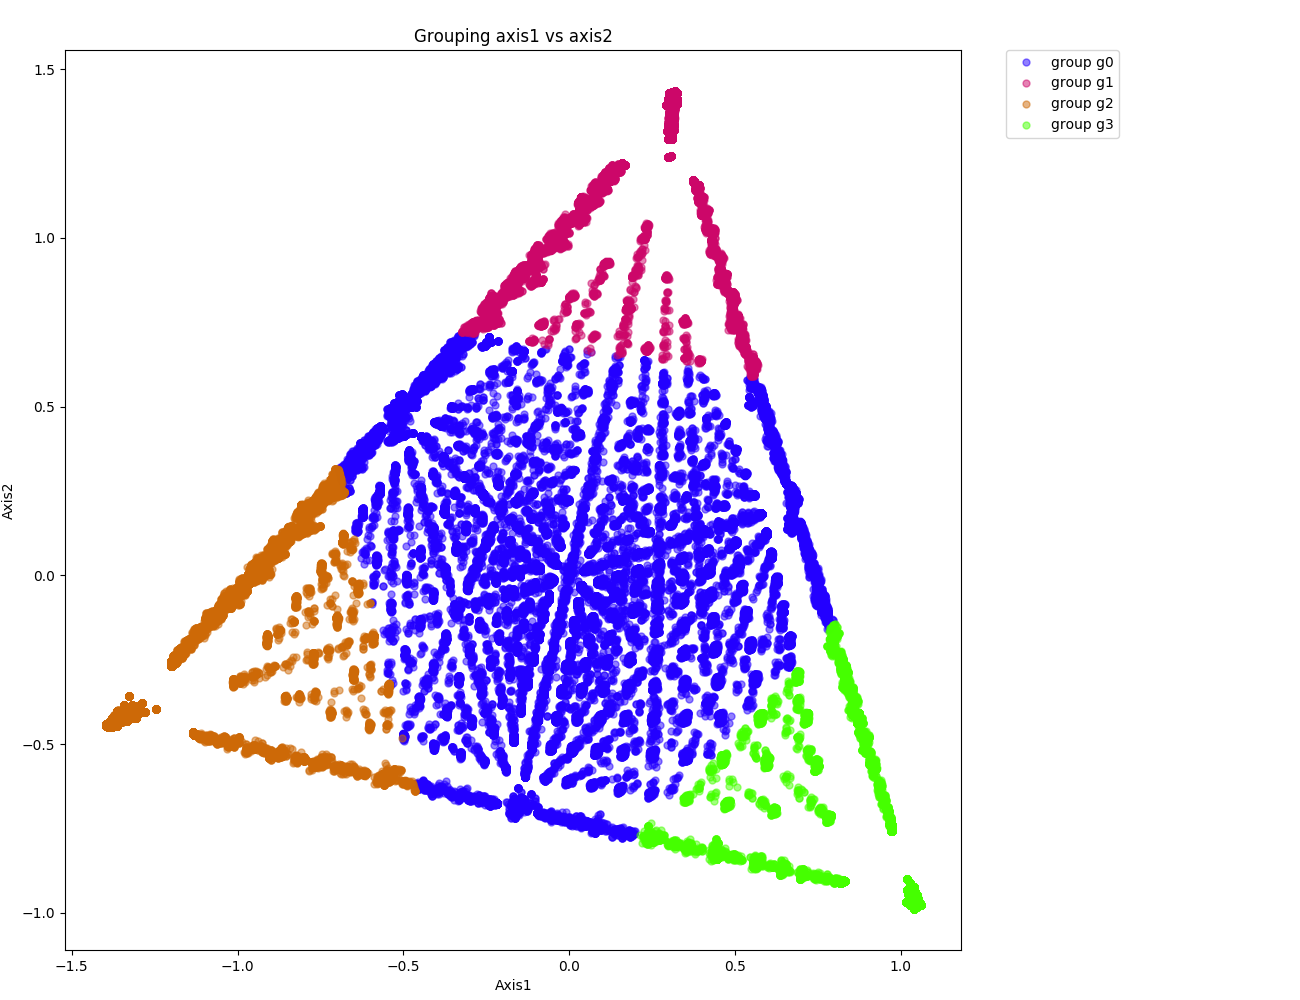
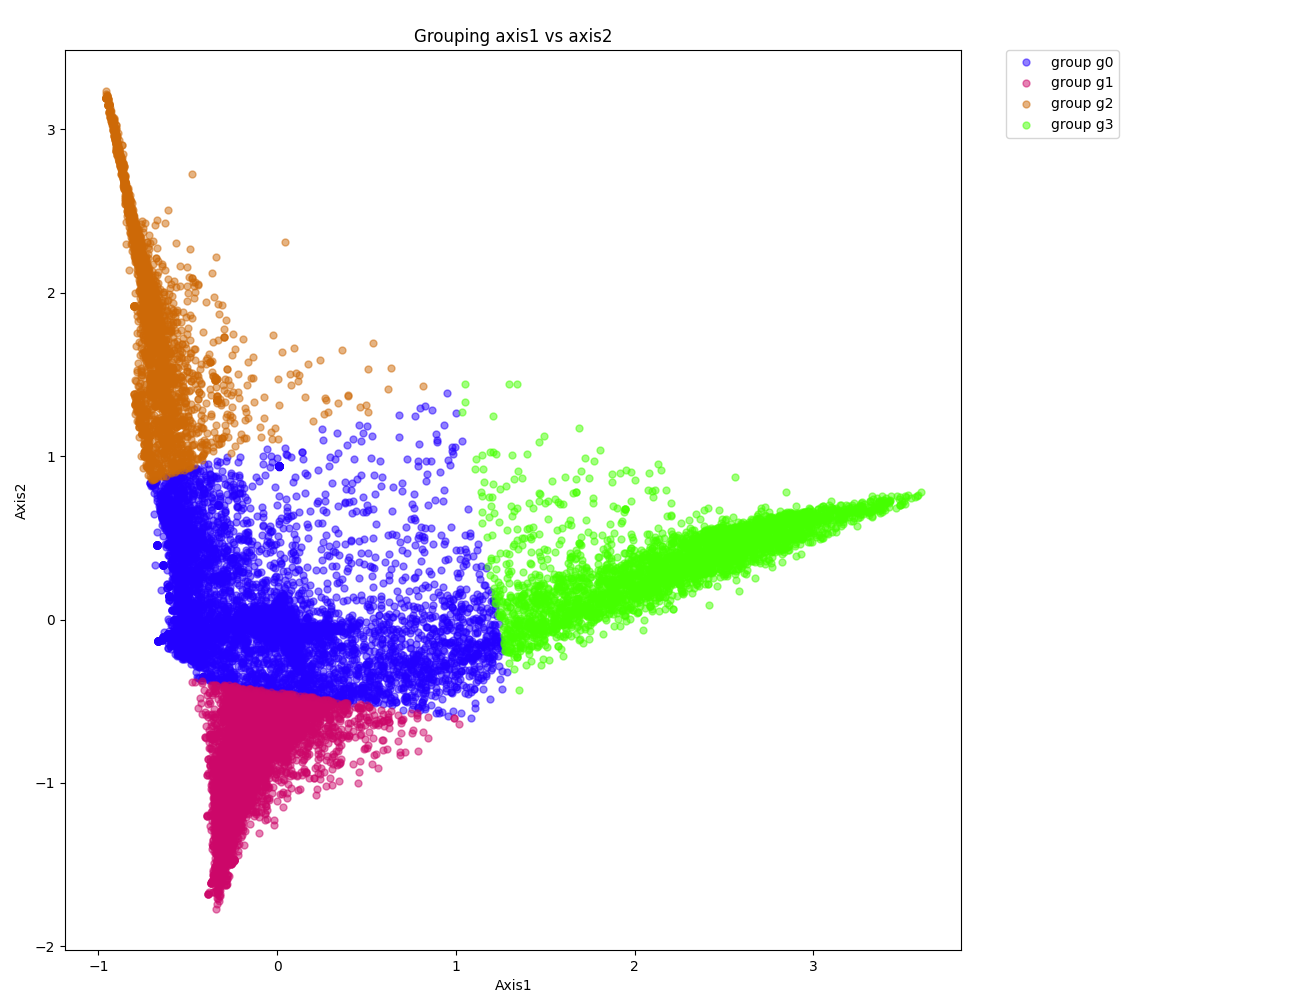
complete PCA protocol

diff --git a/docs/source/PCAChromosomePainting.rst b/docs/source/PCAChromosomePainting.rst
@@ -100,6 +100,9 @@ axis in the following picture.
 
 .. image:: _images/PCA1.png
 
+Correspond to the file : **PCA/Analysis_axis_1_vs_2.pdf**
+
+
 In this example the left graph represent accessions projected along
 axis 1 and 2 and the right represent the allele projected along
 synthetic axis. A graphical representation is performed for each axis
@@ -119,12 +122,16 @@ along synthetic axis is generated.
 
 ::
 
-   sort -k 2n,2 PCA/Analysis_individuals_coordinates.tab | cut -f 1 -d " " | tail -10 > data/origin.txt
-   sort -k 3n,3 PCA/Analysis_individuals_coordinates.tab | cut -f 1 -d " " | tail -10 >> data/origin.txt
-   sort -k 3nr,3  PCA/Analysis_individuals_coordinates.tab | cut -f 1 -d " " | tail -10 >> data/origin.txt
-   sed -i 's:\"::g' data/origin.txt
-   sed -i 's=\.=-=' data/origin.txt
-
+   sort -k 2n,2 PCA/Analysis_individuals_coordinates.tab | cut -f 1 -d " " | tail -10 | sed 's:\"::g' | sed  's=\.=-=' | sed "s:$:\tg1:" > group1.txt
+   sort -k 3n,3 PCA/Analysis_individuals_coordinates.tab | cut -f 1 -d " " | tail -10 | sed 's:\"::g' | sed  's=\.=-=' | sed "s:$:\tg2:" > group2.txt
+   sort -k 3nr,3 PCA/Analysis_individuals_coordinates.tab | cut -f 1 -d " " | tail -10 | sed 's:\"::g' | sed  's=\.=-=' | sed "s:$:\tg3:" > group3.txt
+   
+   echo '["group"]' > data/origin.txt
+   cat group1.txt group2.txt group3.txt >> data/origin.txt
+   echo '["color"]' >> data/origin.txt
+   echo -e "g1\tred=0:green=1:blue=0:alpha=0.7" >> data/origin.txt
+   echo -e "g2\tred=0:green=0:blue=1:alpha=0.7" >> data/origin.txt
+   echo -e "g3\tred=1:green=0:blue=0:alpha=0.7" >> data/origin.txt
 
 
 The --group option
@@ -136,13 +143,11 @@ We assume that in some case you have additional informations on your dataset suc
 ::
 
    mkdir -p PCA_group
-   bin/vcf2struct.1.0.py --vcf data/core_v0.7.vcf --names data/origin.txt --type FACTORIAL --prefix PCA_group/Analysis --nAxes 6 --mulType coa
+   bin/vcf2struct.1.0.py --vcf data/core_v0.7.vcf --names data/sample.txt --type FACTORIAL --prefix PCA_group/Analysis --nAxes 6 --mulType coa --group data/origin.txt
 
-::
 
-   bin/vcf2struct.1.0.py --type VISUALIZE_VAR_2D --VarCoord PCA_group/Analysis_variables_coordinates.tab --dAxes 1:2 --mat PCA_group/Analysis_kMean_allele.tab --group PCA_group/Analysis_group_color.tab --prefix PCA_group/AlleleGrouping
+.. image:: _images/PCA2.png
 
-.. image:: _images/AlleleGrouping_axis1_vs_axis2.png
 
 **Mean Shift clustering**
 Now that allele have been projected along synthetic axes, it is time to cluster these alleles. The idea is that the structure reflected by the synthetic axis represent the ancestral structure. In this context, the alleles at the extremities of the cloud of points will be the ancestral ones. These alleles can be clustered using several approaches. In this tutorial we will use a Mean Shift clustering approach.
@@ -161,13 +166,56 @@ During the process, several informations are returned to standard output, but at
 
 ::
 
+   Performing MeanShift
+   Bandwidth estimation: 0.5199882678747445
    number of estimated clusters : 4
 
 - the number of allele grouped within each group is returned and should look like as followed:
 
 ::
 
-   Group g0 contained 163788 dots
-   Group g1 contained 54919 dots
-   Group g2 contained 43346 dots
-   Group g3 contained 37535 dots
+   Group g0 contained 28363 dots
+   Group g1 contained 8704 dots
+   Group g2 contained 3444 dots
+   Group g3 contained 3300 dots
+
+Five file are generated and can be found in the PCA_group folder:
+
+- **PCA_group/Analysis_kMean_allele.tab** file which correspond to the PCA_group/Analysis_matrix_4_PCA.tab in which the allele grouping has been recorded.
+
+- **PCA_group/Analysis_centroid_coordinates.tab** file which regroup the centroids coordinates.
+
+- **PCA_group/Analysis_centroid_iteration_grouping.tab** file which records for each centroid its grouping.
+
+- **PCA_group/Analysis_group_color.tab** file that attribute a color to the groups.
+
+- **PCA_group/Analysis_kMean_gp_prop.tab** file that report for each allele the probability to be in each groups. This is not a "real" probability, the idea was to have a statistics in case you want to filter alleles. This value was calculated as the inverse of the euclidian distance of one point and each centroids and these values were normalized so that the sum is equal to 1.
+
+
+Visualization of the allele grouping can be done as followed:
+
+::
+
+    ./bin/vcf2struct.1.0.py --type VISUALIZE_VAR_2D --VarCoord PCA_group/Analysis_variables_coordinates.tab --dAxes 1:2 --mat PCA_group/Analysis_kMean_allele.tab --group PCA_group/Analysis_group_color.tab --prefix PCA_group/AlleleGrouping
+
+
+And corresponding representation :
+
+.. image:: _images/AlleleGrouping_axis1_vs_axis2.png
+
+**PCA_group/AlleleGrouping_axis1_vs_axis2.png**
+
+It is not necessary to have a 3d visualization but we can try the command anyway:
+
+::
+
+    ./bin/vcf2struct.1.0.py --type VISUALIZE_VAR_3D --VarCoord PCA_group/Analysis_variables_coordinates.tab --dAxes 1:2:3 --mat PCA_group/Analysis_kMean_allele.tab --group PCA_group/Analysis_group_color.tab
+
+A window which should look like this should open:
+
+
+.. image:: _images/PCA3.png
+
+
+This 3d visualization can be rotated with the mouse.
+
